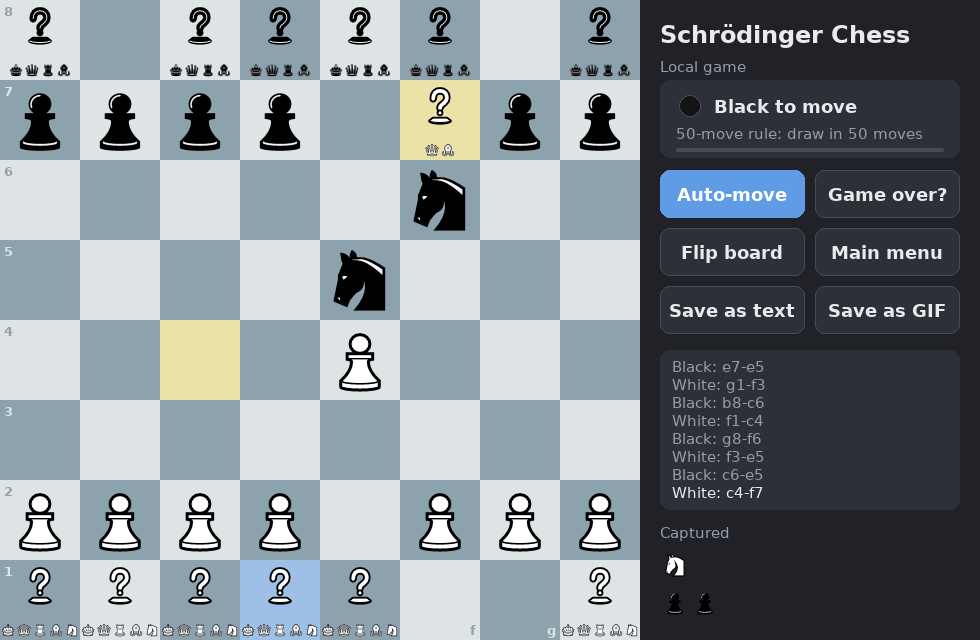
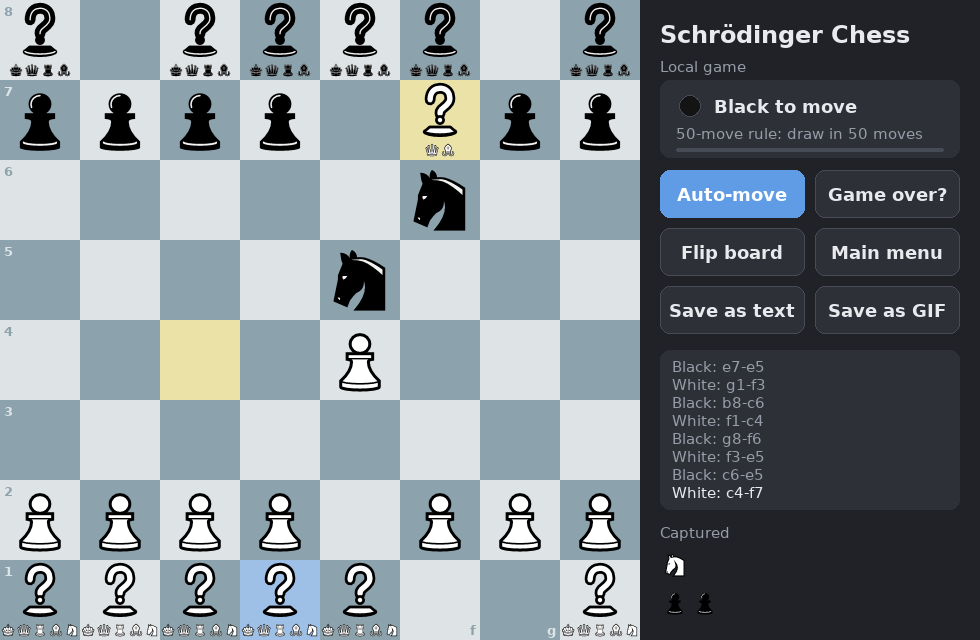
feat: draw the unknown piece about as big as the other pieces
Claude-Session: https://claude.ai/code/session_01NohyV75Q4NqcyNfo28eooR

diff --git a/schroedingerchess/display.py b/schroedingerchess/display.py
@@ -1001,9 +1001,11 @@ class ChessDisplay:
         elif size < 40:
             self.canvas.image(self._picture(prefix + "S", size), (x, y))
         else:
-            main = 0.62 * size
+            # The drawing fills the top 82% of its box, so it can be almost as
+            # big as other pieces while leaving room for the row of natures
+            main = 0.9 * size
             picture = self._picture(prefix + "S", main)
-            self.canvas.image(picture, (x + (size - main) / 2, y + 0.04 * size))
+            self.canvas.image(picture, (x + (size - main) / 2, y - 0.04 * size))
             small = size / 5
             left = x + (size - small * len(natures)) / 2
             for i, nature in enumerate(natures):
